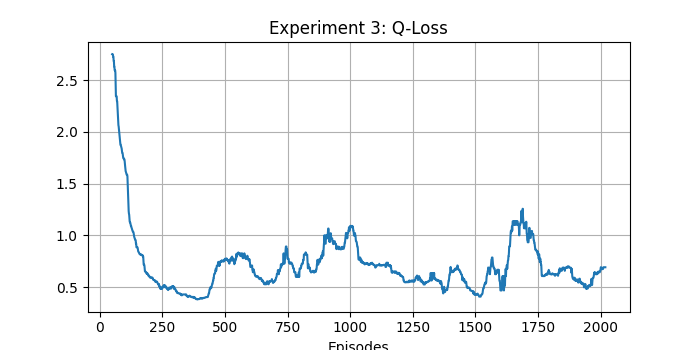
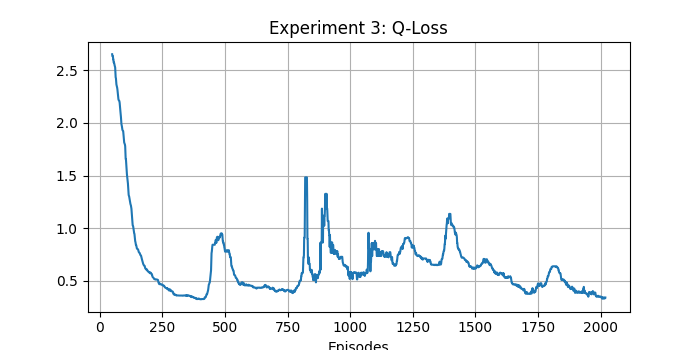
changed interest accrue method

diff --git a/envs/market_env/plf_pool.py b/envs/market_env/plf_pool.py
@@ -193,8 +193,8 @@ class PLFPool:
         """
         # Accrue interest tokens
         for supply_hash in self.supply_token.keys():
-            # if supply_hash == PLF_INITIATOR:  # No interest is accrued for initialization supply
-            #     continue
+            if supply_hash == PLF_INITIATOR:  # No interest is accrued for initialization supply
+                continue
             daily_interest = self.supply_token[supply_hash] * (self._get_daily_interest(self.supply_interest_rate) - 1)
             daily_interest_fee = daily_interest * PLF_FEE
             assert daily_interest_fee >= 0, "Fee has to be positive"
@@ -203,8 +203,8 @@ class PLFPool:
 
         # Accrue borrow tokens
         for borrow_hash in self.borrow_token.keys():
-            # if borrow_hash == PLF_INITIATOR:  # No interest is accrued for initialization borrow
-            #     continue
+            if borrow_hash == PLF_INITIATOR:  # No interest is accrued for initialization borrow
+                continue
             daily_interest = self.borrow_token[borrow_hash] * (self._get_daily_interest(self.borrow_interest_rate) - 1)
             daily_interest_fee = daily_interest * PLF_FEE
             assert daily_interest_fee >= 0, "Fee has to be positive"
